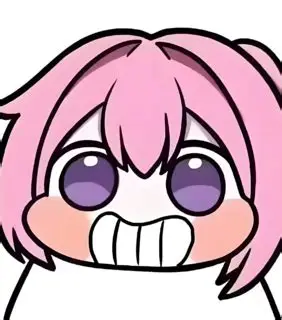
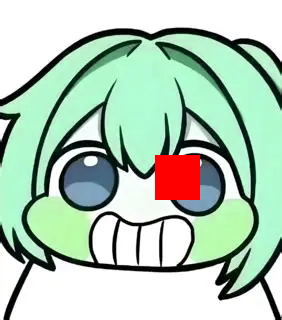
学习图像处理，认识了通道等概念，学习numpy的使用

diff --git a/w1_homework.py b/w1_homework.py
@@ -2,7 +2,19 @@ import cv2
 
 img = cv2.imread('OIP-C.webp')
 
+img[100,100]=[255,255,255]
+
+roi=img[105:200,105:200]
+roi[50:150, 50:150] = [0, 255, 0]
+
+#b,g,r=cv2.split(img)
+#r[:]=0
+#img=cv2.merge([b,g,r])
+img[:,:,0]=0
+#img[:, :, [2, 1]] = img[:, :, [1, 2]]
+
 cv2.imshow('my image', img)
 cv2.waitKey(0)
+cv2.destroyAllWindows()
 
 cv2.imwrite('new_image.png', img)

diff --git a/1.cpp b/1.cpp
@@ -1,0 +1,20 @@
+#include<iostream>
+#include<vector>
+using namespace std;
+int main(){
+    int a;
+    cin>>a;
+    vector<int> arr(a);
+    for(int b=0;b<a;b++){
+        cin>>arr[b];
+    }
+    int c;
+    int num=0;
+    cin>>c;
+    for(int b=0;b<a;b++){
+        if (c==arr[b]){
+            num++;
+        }
+    }
+    cout<<num<<endl;
+}
